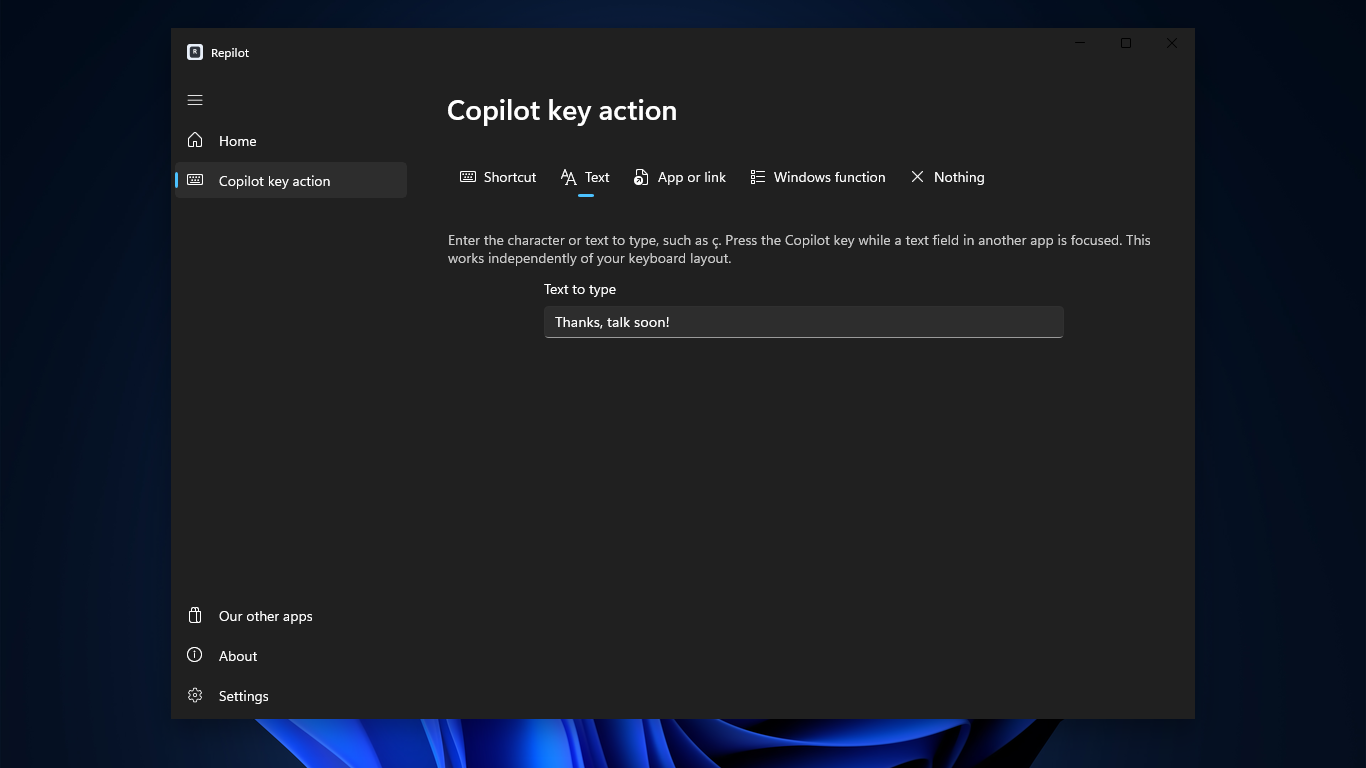
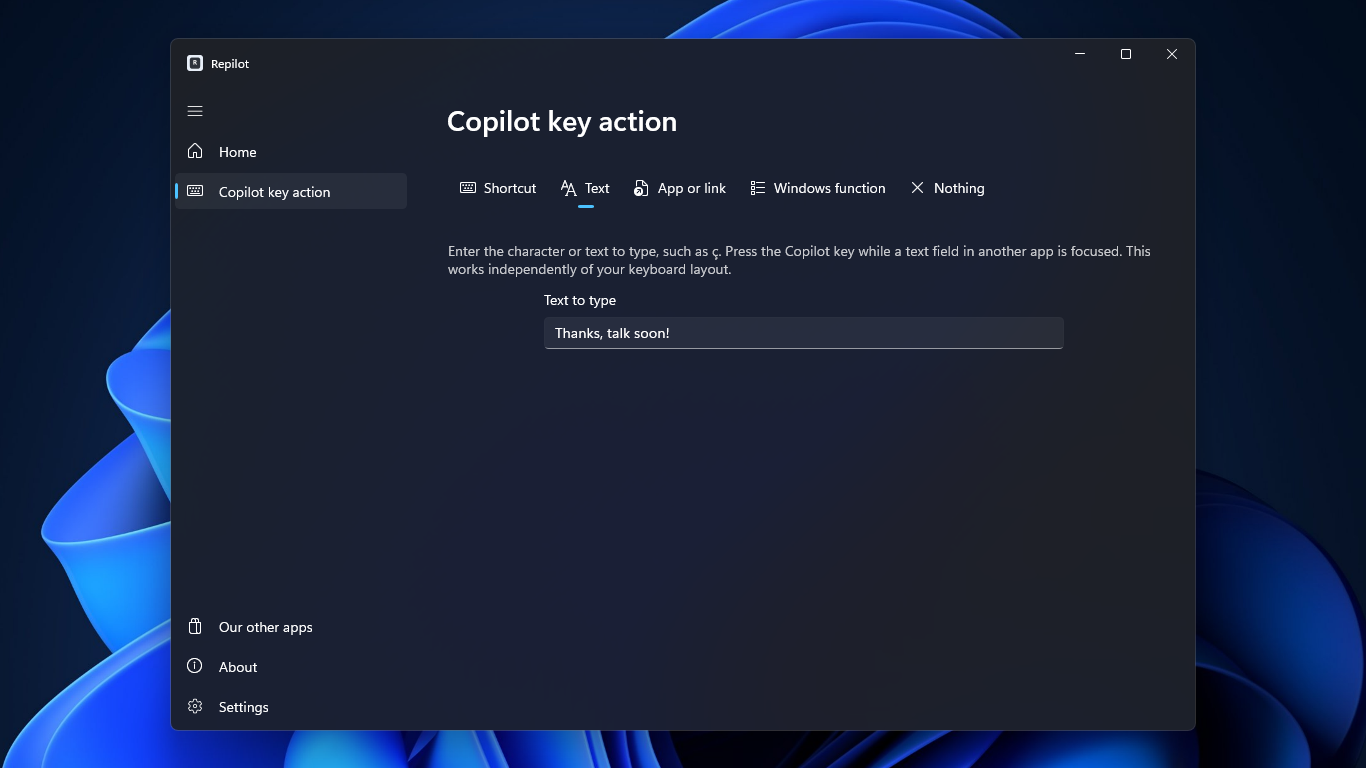
Retake the Store screenshots as real desktop captures
The screenshots are now crops of the test VM's real desktop around the
focused window, with Windows 11's window effects on: rounded corners,
border, shadow and Mica, on the dark wallpaper in dark mode. Each raw
capture has the sidecar the capture helper writes, which the kit's check
reads. Content and captions are unchanged.

winui-app-kit moves to v1.23.0 for the renderer that crops these
captures, with both reusable workflow tags. The store-assets README
describes the new capture flow.

diff --git a/store-assets/README.md b/store-assets/README.md
@@ -4,16 +4,16 @@
 | --- | --- |
 | `microsoft/listings.json`, `listings.md` | The Store listing text in all nine locales, and the claims it makes (see `listings.md`) |
 | `manifest.json` | Every Store screenshot in listing order: its raw source, theme, en-US caption and alt text (LIST-8) |
-| `raw/microsoft/` | The raw captures: the app's window at 1:1, taken on the Windows test VM |
+| `raw/microsoft/` | The raw captures: the test VM's whole desktop at 1:1 around the app's window, each with the `.json` sidecar the capture helper writes |
 | `microsoft/screenshots/` | The listing screenshots, rendered from the raw captures; the README shows these too (ASSET-10) |
 
 ## Screenshots
 
 Captured from the real installed app with synthetic settings, never from a personal machine (LIST-8). The captions in `manifest.json` are the en-US `screenshotCaptions` in `listings.json`, in the same order and count; each other locale has its own translation there.
 
-1. **Capture** on the Windows 11 test VM with the windows-build-tools app-test recipe: install a dev package, then run the capture script (`shots.ps1`, kept with the release-prep notes) in the desktop session. It writes each shot's settings (dark theme, action), opens the window at 1040 x 700 and saves the window only. Copy the results into `raw/microsoft/` under the manifest's names.
-2. **Render** with `npm run shots:render` (winui-app-kit's renderer; its README has the rules): each raw capture is centred at 1:1, never scaled, on the Windows 11 default dark wallpaper at 1366 x 768 and written without an alpha channel to `microsoft/screenshots/` (ASSET-9). Every shot is in dark mode (LIST-8). The wallpaper is read from the Windows install at render time and never committed. Reframing or recaptioning needs no recapture.
-3. **Check** with `npm run check:screenshots` (part of `npm run validate`): every manifest entry is dark and exists at exactly 1366 x 768 as 8-bit RGB without alpha, with a caption and alt text; the captions match the en-US `screenshotCaptions`; no stray file is present; and the count is 1 to 10.
+1. **Capture** on the Windows 11 test VM with the windows-build-tools app-test helpers, from this repo's root: install a dev package, run `screenshot-desktop.ps1 -Mode Prepare` (dark mode, 1920 x 1080, the dark wallpaper, window effects on), then the capture script (`shots.ps1`, kept with the release-prep notes) in the desktop session. It writes each shot's settings (dark theme, action), centres the focused window on the work area and saves the whole desktop with its `.json` sidecar (`Save-DesktopCapture`). Copy each `.png` and `.json` into `raw/microsoft/` under the manifest's names, then end the visit with `app_test_clean`.
+2. **Render** with `npm run shots:render` (winui-app-kit's renderer; its README has the rules): each capture is cropped to 1366 x 768 around the window, with nothing composited, shaved or scaled, and written without an alpha channel to `microsoft/screenshots/` (ASSET-9). Every shot is in dark mode (LIST-8). Recaptioning needs no recapture; a new look does.
+3. **Check** with `npm run check:screenshots` (part of `npm run validate`): every capture has its sidecar and was taken dark, at 100% scale, with effects on and the dark wallpaper; the window in each screenshot is dark and fits its crop; every screenshot was written by the renderer at exactly 1366 x 768 as 8-bit RGB without alpha, with a caption and alt text; the captions match the en-US `screenshotCaptions`; no stray file is present; and the count is 1 to 10.
 4. **Sync** to Partner Center with the next submission: the files in order and each locale's captions from `listings.json`. Listing images go into the same upload archive as that submission's package, never a separate upload: a second archive replaces the package the release run uploaded (seen with 1.1.0).
 
 A UI change that shows in a screenshot means recapturing that shot; the release skill's checklist says when.
